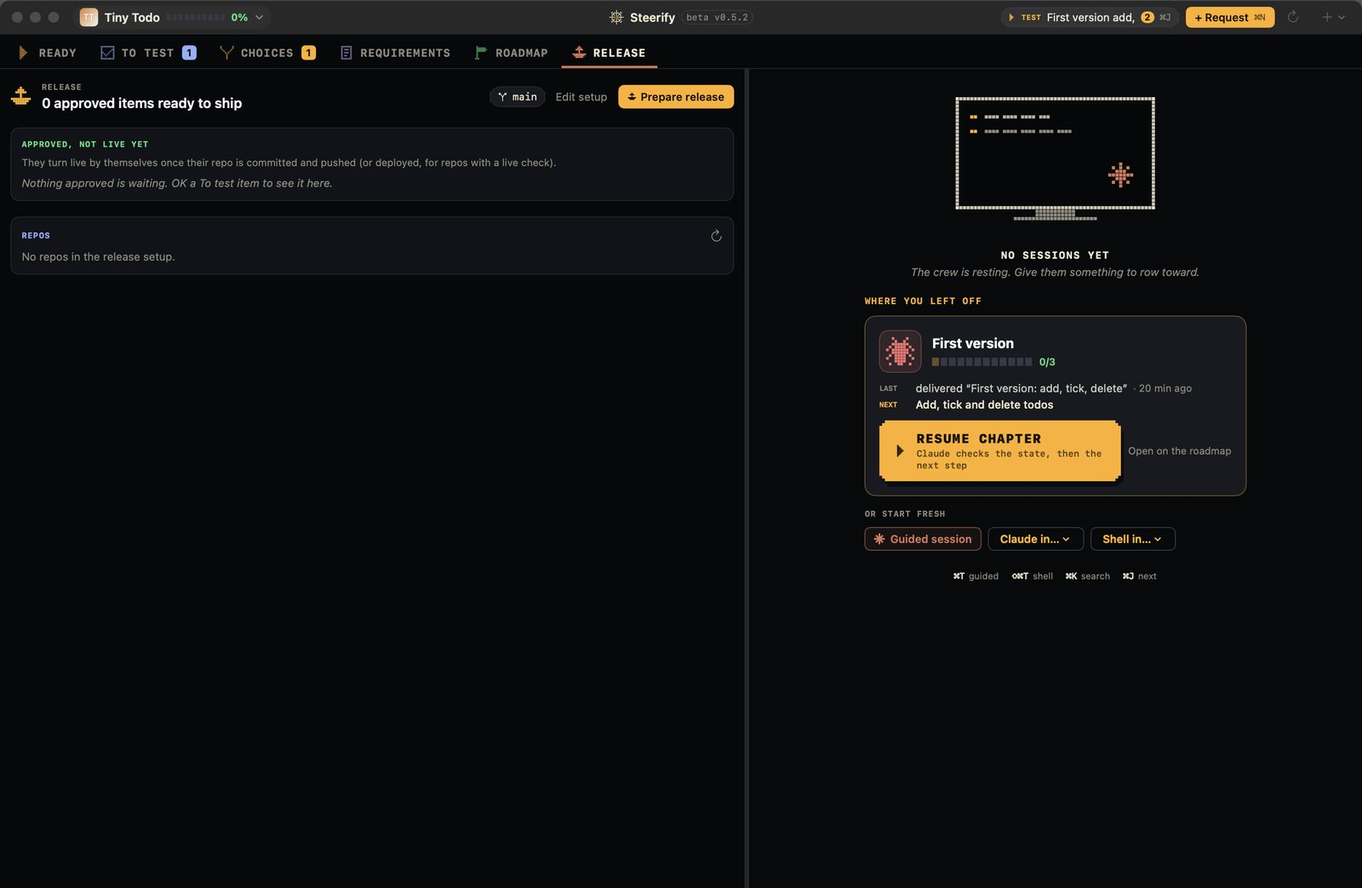
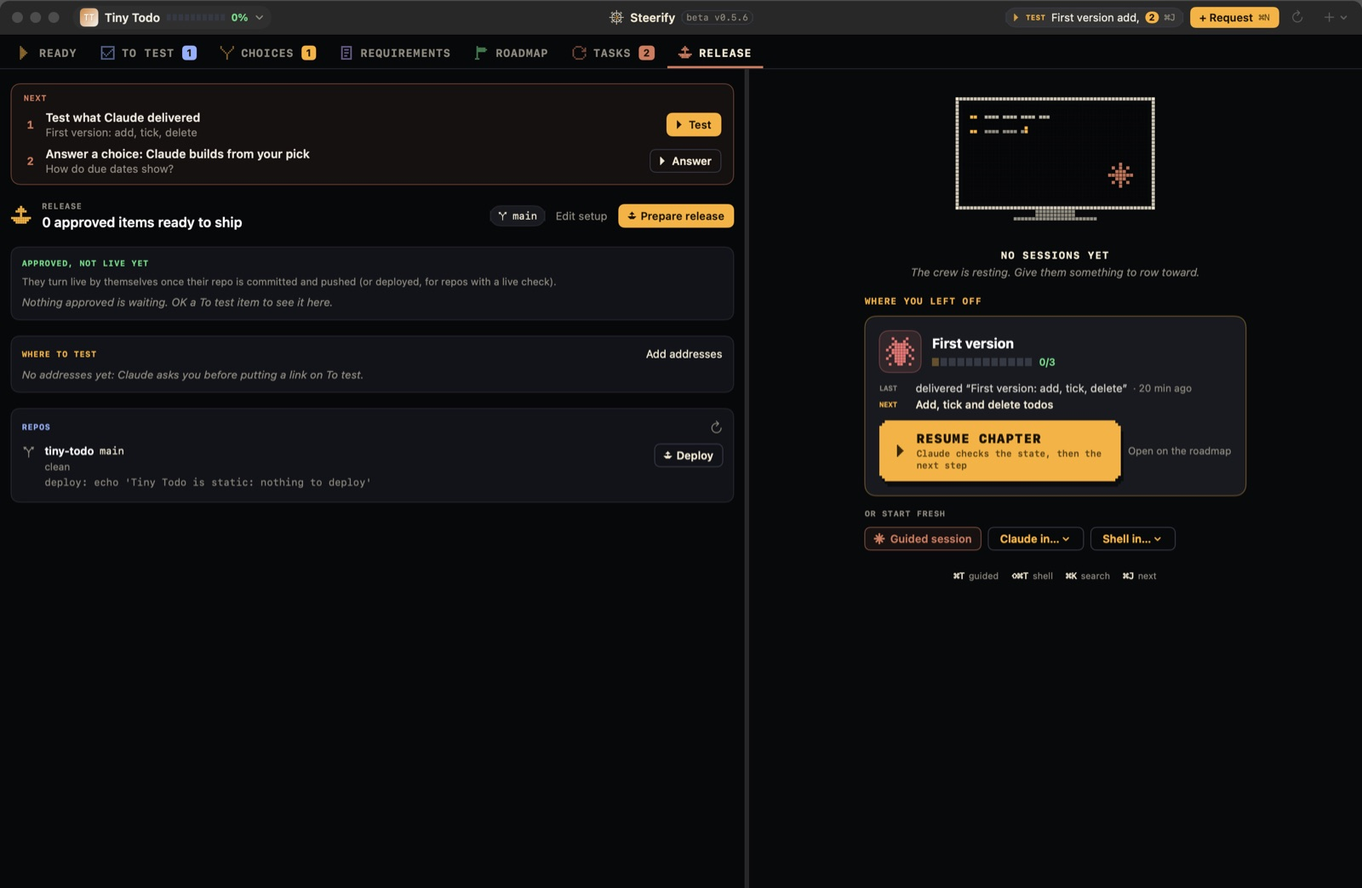
Steerify 0.5.6 (sync 58699a0)

diff --git a/site/index.html b/site/index.html
@@ -27,7 +27,7 @@
 <meta name="twitter:description" content="Steerify is a native Mac app for steering Claude Code across your projects: choices with mockups, visual review of finished work and a roadmap, next to the sessions doing the work. Ship more, read less.">
 <meta name="twitter:image" content="https://steerify.dev/assets/og-3.jpg">
 <meta name="twitter:image:alt" content="Steerify: 99 sessions open, 3 waiting on you. You decide. Claude builds. A free Mac app for steering Claude Code.">
-<script type="application/ld+json">{"@context":"https://schema.org","@graph":[{"@type":"WebSite","@id":"https://steerify.dev/#site","name":"Steerify","url":"https://steerify.dev/","inLanguage":"en","publisher":{"@type":"Person","name":"Frenk"}},{"@type":"SoftwareApplication","@id":"https://steerify.dev/#app","name":"Steerify","url":"https://steerify.dev/","applicationCategory":"DeveloperApplication","applicationSubCategory":"AI coding tool","operatingSystem":"macOS 15 or later","softwareVersion":"0.5.2","releaseNotes":"https://steerify.dev/releases.html","image":"https://steerify.dev/assets/og-3.jpg","screenshot":"https://steerify.dev/assets/shots/hero-now.jpg","description":"Steerify is a native Mac app for steering Claude Code across projects. It keeps a steering board (choices with mockups, visual review of finished work, requirements and a roadmap) next to the Claude Code terminal sessions doing the work. Claude asks, builds and delivers on the board; you choose, look and approve, and approved work ships in one click.","featureList":["Every roadmap item starts its own briefed Claude Code session in the right repo","Choices with a mockup per option, answered with one click","Visual review: finished work arrives as pictures, with notes pinned on the picture","Session status from Claude Code hooks: working, waiting on you, idle","Release tab: approved work is committed, pushed and deployed by the session that built it","Steerify MCP server so Claude updates the board directly","Multi-project: every project's board lives in its own git repo","Updates itself: new versions download in the background, one click to restart"],"offers":{"@type":"Offer","price":"0","priceCurrency":"EUR","availability":"https://schema.org/InStock","description":"Free and open source (MIT)"},"creator":{"@type":"Person","name":"Frenk"}},{"@type":"FAQPage","@id":"https://steerify.dev/#faq","mainEntity":[{"@type":"Question","name":"Is Steerify an AI?","acceptedAnswer":{"@type":"Answer","text":"No. Claude Code does the building, with your own login. Steerify is where you steer it. For small jobs like session summaries and sorting requests, it also uses Apple Intelligence on your Mac, when that is turned on."}},{"@type":"Question","name":"Do I need Claude Code?","acceptedAnswer":{"@type":"Answer","text":"Yes. Sessions run in a real terminal on your Mac. Steerify never sees your keys."}},{"@type":"Question","name":"Where does my board live?","acceptedAnswer":{"@type":"Answer","text":"In a folder of plain files in your own repo. Delete Steerify and it's all still yours."}},{"@type":"Question","name":"How does Steerify know what a Claude Code session is doing?","acceptedAnswer":{"@type":"Answer","text":"Through Claude Code hooks, never by reading the terminal output. Every session Steerify starts carries a few hooks (prompt, tool use, Stop, Notification, PermissionRequest), so it flips to working, idle or needs you the moment something happens. To tell finished from asked you something, it reads Claude's last reply in the session transcript. No polling, no tokens spent."}},{"@type":"Question","name":"How is Steerify different from T3 Code?","acceptedAnswer":{"@type":"Answer","text":"T3 Code manages agents: threads, branches and pull requests across Claude Code, Codex, Cursor and more, on every platform. Steerify manages decisions: choices with mockups, visual review and a roadmap, native on Mac, for Claude Code only. Running many agents? T3 Code. Tired of reading scrollback to decide? Steerify. Full comparison: https://steerify.dev/t3-code-alternative.html"}},{"@type":"Question","name":"What does it cost?","acceptedAnswer":{"@type":"Answer","text":"Nothing. Steerify is free and open source (MIT). You bring your own Claude Code login. Not made by Anthropic; Claude is their trademark."}}]}]}</script>
+<script type="application/ld+json">{"@context":"https://schema.org","@graph":[{"@type":"WebSite","@id":"https://steerify.dev/#site","name":"Steerify","url":"https://steerify.dev/","inLanguage":"en","publisher":{"@type":"Person","name":"Frenk"}},{"@type":"SoftwareApplication","@id":"https://steerify.dev/#app","name":"Steerify","url":"https://steerify.dev/","applicationCategory":"DeveloperApplication","applicationSubCategory":"AI coding tool","operatingSystem":"macOS 15 or later","softwareVersion":"0.5.6","releaseNotes":"https://steerify.dev/releases.html","image":"https://steerify.dev/assets/og-3.jpg","screenshot":"https://steerify.dev/assets/shots/hero-now.jpg","description":"Steerify is a native Mac app for steering Claude Code across projects. It keeps a steering board (choices with mockups, visual review of finished work, requirements and a roadmap) next to the Claude Code terminal sessions doing the work. Claude asks, builds and delivers on the board; you choose, look and approve, and approved work ships in one click.","featureList":["Every roadmap item starts its own briefed Claude Code session in the right repo","Choices with a mockup per option, answered with one click","Visual review: finished work arrives as pictures, with notes pinned on the picture","Session status from Claude Code hooks: working, waiting on you, idle","Release tab: approved work is committed, pushed and deployed by the session that built it","Steerify MCP server so Claude updates the board directly","Tasks: non-code work Claude does on a schedule (tutorials, reports, data collection), each run ending in a result you check","Multi-project: every project's board lives in its own git repo","Updates itself: new versions download in the background, one click to restart"],"offers":{"@type":"Offer","price":"0","priceCurrency":"EUR","availability":"https://schema.org/InStock","description":"Free and open source (MIT)"},"creator":{"@type":"Person","name":"Frenk"}},{"@type":"FAQPage","@id":"https://steerify.dev/#faq","mainEntity":[{"@type":"Question","name":"Is Steerify an AI?","acceptedAnswer":{"@type":"Answer","text":"No. Claude Code does the building, with your own login. Steerify is where you steer it. For small jobs like session summaries and sorting requests, it also uses Apple Intelligence on your Mac, when that is turned on."}},{"@type":"Question","name":"Do I need Claude Code?","acceptedAnswer":{"@type":"Answer","text":"Yes. Sessions run in a real terminal on your Mac. Steerify never sees your keys."}},{"@type":"Question","name":"Where does my board live?","acceptedAnswer":{"@type":"Answer","text":"In a folder of plain files in your own repo. Delete Steerify and it's all still yours."}},{"@type":"Question","name":"How does Steerify know what a Claude Code session is doing?","acceptedAnswer":{"@type":"Answer","text":"Through Claude Code hooks, never by reading the terminal output. Every session Steerify starts carries a few hooks (prompt, tool use, Stop, Notification, PermissionRequest), so it flips to working, idle or needs you the moment something happens. To tell finished from asked you something, it reads Claude's last reply in the session transcript. No polling, no tokens spent."}},{"@type":"Question","name":"How is Steerify different from T3 Code?","acceptedAnswer":{"@type":"Answer","text":"T3 Code manages agents: threads, branches and pull requests across Claude Code, Codex, Cursor and more, on every platform. Steerify manages decisions: choices with mockups, visual review and a roadmap, native on Mac, for Claude Code only. Running many agents? T3 Code. Tired of reading scrollback to decide? Steerify. Full comparison: https://steerify.dev/t3-code-alternative.html"}},{"@type":"Question","name":"Can Claude do work that isn't code?","acceptedAnswer":{"@type":"Answer","text":"Yes: that's the Tasks tab. A tutorial from your SOP, a weekly report, a data collection with your own tools. Give it an outcome and a few checks, run it once or on a schedule. Each run ends with a result you OK or send back; a run that never reports shows up as No result."}},{"@type":"Question","name":"What does it cost?","acceptedAnswer":{"@type":"Answer","text":"Nothing. Steerify is free and open source (MIT). You bring your own Claude Code login. Not made by Anthropic; Claude is their trademark."}}]}]}</script>
 <link rel="preconnect" href="https://fonts.googleapis.com">
 <link rel="stylesheet" href="https://fonts.googleapis.com/css2?family=Silkscreen:wght@400;700&family=Instrument+Serif:ital@1&family=Inter+Tight:wght@400;500;600;700&family=JetBrains+Mono:wght@400;500&display=swap">
 <link rel="stylesheet" href="assets/site.css?v=10">
@@ -116,7 +116,7 @@
     <div class="wrap">
       <span class="eyebrow">How it works</span>
       <h2 style="margin-top:14px">From one sentence to shipped.</h2>
-      <p class="lead" style="margin-top:14px">Ten ideas, no manual. Scroll, watch, done.</p>
+      <p class="lead" style="margin-top:14px">Eleven ideas, no manual. Scroll, watch, done.</p>
       <div class="moves">
         <div class="mv">
           <div><span class="num">01</span><h3>Say what you want.</h3><p>Write it in plain words. Steerify turns it into requirements, docs and a roadmap.</p><p class="aside">No template to fill in.</p></div>
@@ -135,7 +135,7 @@
           <div data-scene="3"></div>
         </div>
         <div class="mv">
-          <div><span class="num">05</span><h3>Only what needs you.</h3><p>Nine sessions running, three waiting on you. You see those three.</p><p class="aside">The other six don't need a babysitter.</p></div>
+          <div><span class="num">05</span><h3>Only what needs you.</h3><p>Nine sessions running, three waiting on you. You see those three: rowing is blue, your turn is violet with a Test or Answer button, done is grey with a tick. On top of the board, at most two next steps.</p><p class="aside">The other six don't need a babysitter.</p></div>
           <div data-scene="4"></div>
         </div>
         <div class="mv flip">
@@ -158,6 +158,10 @@
           <div><span class="num">10</span><h3>The small jobs stay on your Mac.</h3><p>Session summaries, sorting a new request, roadmap ideas from your commits, a first check of each screenshot: Apple Intelligence does them on your Mac's own chip. Free, private, and optional. Claude still does the building.</p><p class="aside">Not everything needs the cloud.</p></div>
           <div data-scene="mac"></div>
         </div>
+        <div class="mv" id="tasks">
+          <div><span class="num">11</span><h3>Not only code: Tasks.</h3><p>A tutorial from your SOP, the Monday data collection, a report. Claude does it with your tools and your standards, once or on a schedule. A run only ends with a result: what it made, the numbers, a tick or a cross on every check. You say OK or Redo.</p><p class="aside">Plan it once. Check the result, not the session.</p></div>
+          <figure class="shot"><img src="assets/shots/demo/web/tasks.jpg" width="1600" height="1043" alt="The Tasks tab: a running tutorial, a weekly report to check with its numbers and one failed check, a run with no result, the schedule with its run history" loading="lazy"></figure>
+        </div>
       </div>
     </div>
   </section>
@@ -171,9 +175,11 @@
         <figure data-label="Decide"><a href="assets/shots/demo/choice-making.png"><img src="assets/shots/demo/web/choice-making.jpg" width="1600" height="1043" alt="A choice opened full screen: the Tiny Todo list with due-date chips, option A suggested, and a Choose A button" loading="lazy"></a><figcaption><span><b>Decide</b> · A choice, full screen. The option is a picture; one button chooses it.</span></figcaption></figure>
         <figure data-label="Look"><a href="assets/shots/demo/test-preview.png"><img src="assets/shots/demo/web/test-preview.jpg" width="1600" height="1043" alt="A delivered test with its picture, a Mark it right button and the verdict buttons OK, Refine, Broken" loading="lazy"></a><figcaption><span><b>Look</b> · One test, one picture. Mark it right, then OK, Refine or Broken.</span></figcaption></figure>
         <figure data-label="To test"><a href="assets/shots/demo/test.png"><img src="assets/shots/demo/web/test.jpg" width="1600" height="1043" alt="The To test tab: a delivery with two tests, each with a picture, Test it and Looks right" loading="lazy"></a><figcaption><span><b>To test</b> · Every delivery with its tests, a picture for each one.</span></figcaption></figure>
-        <figure data-label="Roadmap"><a href="assets/shots/demo/roadmap.png"><img src="assets/shots/demo/web/roadmap.jpg" width="1600" height="1043" alt="The roadmap: two chapters with progress bars and a Start button on each item" loading="lazy"></a><figcaption><span><b>Roadmap</b> · Chapters, progress, and a Start button on every item.</span></figcaption></figure>
+        <figure data-label="Roadmap"><a href="assets/shots/demo/roadmap.png"><img src="assets/shots/demo/web/roadmap.jpg" width="1600" height="1043" alt="The roadmap: the Next strip on top, area tags, two chapters with progress, each delivery's pictures and tests on its rows, and a Start button on every item" loading="lazy"></a><figcaption><span><b>Roadmap</b> · Chapters, area tags, each feature with its pictures, a Start on every item.</span></figcaption></figure>
+        <figure data-label="Tasks"><a href="assets/shots/demo/tasks.png"><img src="assets/shots/demo/web/tasks.jpg" width="1600" height="1043" alt="The Tasks tab: a running tutorial, a weekly report to check with OK and Redo, a run with no result, a scheduled task with its run history" loading="lazy"></a><figcaption><span><b>Tasks</b> · Work that isn't code, on a schedule. Every run ends with a result to check.</span></figcaption></figure>
+        <figure data-label="Sessions"><a href="assets/shots/demo/sessions.png"><img src="assets/shots/demo/web/sessions.jpg" width="1600" height="1043" alt="The Ready tab with where you left off and what waits on you, next to three sessions: one needs you, one rowing, one idle" loading="lazy"></a><figcaption><span><b>Sessions</b> · Rowing in blue, your turn in violet, done in grey. Ready shows where you left off.</span></figcaption></figure>
         <figure data-label="Requirements"><a href="assets/shots/demo/requirements.png"><img src="assets/shots/demo/web/requirements.jpg" width="1600" height="1043" alt="The Requirements tab: three proposed requirements with confirm, edit and later buttons" loading="lazy"></a><figcaption><span><b>Requirements</b> · Claude proposes them. You confirm, edit or park each line.</span></figcaption></figure>
-        <figure data-label="Request"><a href="assets/shots/demo/new-request.png"><img src="assets/shots/demo/web/new-request.jpg" width="1600" height="1043" alt="The New request sheet: a typed request sorted as a refinement and filed under a chapter" loading="lazy"></a><figcaption><span><b>Request</b> · Type a fix or an idea from anywhere. Steerify files it in the right chapter.</span></figcaption></figure>
+        <figure data-label="Request"><a href="assets/shots/demo/request-mark.png"><img src="assets/shots/demo/web/request-mark.jpg" width="1600" height="1043" alt="The New request sheet: a screenshot with a numbered dot and a marked area, the request text pointing at them, sorted as a refinement and filed under a chapter" loading="lazy"></a><figcaption><span><b>Request</b> · Mark the picture, say what's wrong. Steerify files it as a fix, a feature or a task.</span></figcaption></figure>
         <figure data-label="Search"><a href="assets/shots/demo/search.png"><img src="assets/shots/demo/web/search.jpg" width="1600" height="1043" alt="The search palette: results for "due" grouped by roadmap and choices" loading="lazy"></a><figcaption><span><b>Search</b> · One search across sessions, choices, roadmap and requests.</span></figcaption></figure>
       </div>
     </div>
@@ -260,7 +266,7 @@
         <div class="mv">
           <div><h3>How you start</h3>
             <ul class="tech">
-              <li><b>Add a project.</b> Pick any folder. Steerify creates a <code>.steerify/</code> board inside it: plain JSON files that travel with your repo.</li>
+              <li><b>Add a project.</b> Drop a folder on Steerify, or pick one. Steerify creates a <code>.steerify/</code> board inside it: plain JSON files that travel with your repo. <b>Set up with Claude</b> reads the project and fills the board in while you watch.</li>
               <li><b>The skill installs itself.</b> <code>~/.claude/skills/steerify</code> teaches every Claude Code session the same loop.</li>
               <li><b>Start an item.</b> It opens <code>claude '/steerify build &lt;item&gt;'</code> in the right repo, in a real terminal.</li>
             </ul>
@@ -291,6 +297,7 @@
         <div><h3>Where does my board live?</h3><p>In a folder of plain files in your own repo. Delete Steerify and it's all still yours.</p></div>
         <div><h3>How does Steerify know what a Claude Code session is doing?</h3><p>Through Claude Code hooks, never by reading the terminal output. Every session Steerify starts carries a few hooks (prompt, tool use, Stop, Notification, PermissionRequest), so it flips to working, idle or needs you the moment something happens. To tell finished from asked you something, it reads Claude's last reply in the session transcript. No polling, no tokens spent. <a href="claude-code-session-status.html">How it works, step by step</a>.</p></div>
         <div><h3>How is Steerify different from T3 Code?</h3><p>T3 Code manages agents: threads, branches and pull requests across Claude Code, Codex, Cursor and more, on every platform. Steerify manages decisions: choices with mockups, visual review and a roadmap, native on Mac, for Claude Code only. Running many agents? T3 Code. Tired of reading scrollback to decide? Steerify. <a href="t3-code-alternative.html">Full comparison</a>.</p></div>
+        <div><h3>Can Claude do work that isn't code?</h3><p>Yes: that's the Tasks tab. A tutorial from your SOP, a weekly report, a data collection with your own tools. Give it an outcome and a few checks, run it once or on a schedule (every Monday at 8). Each run ends with a result you OK or send back; a run that never reports shows up as No result.</p></div>
         <div><h3>What does it cost?</h3><p>Nothing. Steerify is free and open source (MIT). You bring your own Claude Code login. Not made by Anthropic; Claude is their trademark.</p></div>
       </div>
     </div>

diff --git a/site/releases.html b/site/releases.html
@@ -56,13 +56,25 @@
   <section class="rel-hero">
     <div class="wrap">
       <span class="eyebrow">What's new</span>
-      <h1 class="rel-title">Five versions. Two days.</h1>
+      <h1 class="rel-title">Eleven releases. Four days.</h1>
       <p class="lead" style="margin-top:14px">Every line below shipped through Steerify's own board: built by Claude, looked at, marked OK.</p>
       <p class="aside" style="margin-top:10px;font-size:20px">Yes, we know. It was a long day.</p>
     </div>
   </section>
   <section style="padding-top:0">
     <div class="wrap rels">
+      <article class="rel">
+        <header><span class="ver">v0.5.6</span><span class="when">21 Nov</span><h2>Every feature keeps its pictures.</h2></header>
+        <div class="rel-body"><ul><li><span class="ri" data-icon="road"></span><div><h3>Roadmap, rebuilt</h3><p>Each key result shows its pictures, design first, then the test shots. Area tags named by the local AI, core vs extras, busiest chapter on top, Done folded.</p></div></li><li><span class="ri" data-icon="req"></span><div><h3>Mark the picture</h3><p>In a new request the picture opens big: ⌘-click drops a numbered dot, drag marks an area, and ① ② go into your text.</p></div></li><li><span class="ri" data-icon="choice"></span><div><h3>Simple choices, one list</h3><p>Naming, order or yes/no: one list with a radio per option, no empty picture.</p></div></li><li><span class="ri" data-icon="play"></span><div><h3>Ready: where you left off</h3><p>Your chapters, the next step and what waits on you, in one tab. Release sits apart from build, with a release note for Claude.</p></div></li><li><span class="ri" data-icon="term"></span><div><h3>Picks reach the session that asked</h3><p>Answer a choice and the session that asked it gets it, once all its choices are answered. A deploy wakes the session waiting on it.</p></div></li></ul><figure class="shot"><img src="assets/shots/demo/web/roadmap.jpg" alt="Steerify v0.5.6: the roadmap with area tags and pictures per feature" loading="lazy"></figure></div>
+      </article>
+      <article class="rel">
+        <header><span class="ver">v0.5.5</span><span class="when">20 Nov · evening</span><h2>Not only code.</h2></header>
+        <div class="rel-body"><ul><li><span class="ri" data-icon="play"></span><div><h3>Tasks</h3><p>A new tab for work Claude does with your tools: a tutorial from the SOP, a weekly report. Once or on a schedule; every run ends with a result you OK or Redo, or shows No result.</p></div></li><li><span class="ri" data-icon="term"></span><div><h3>Sessions you can read at a glance</h3><p>Rowing is blue, your turn is violet with Test or Answer, done is grey with a tick.</p></div></li><li><span class="ri" data-icon="road"></span><div><h3>Next strip</h3><p>At most two things to do now, on top of the board, one button each.</p></div></li><li><span class="ri" data-icon="feather"></span><div><h3>Drop a folder to start</h3><p>Drop a folder on the Dock icon or the window. Set up with Claude, then watch the board fill in.</p></div></li><li><span class="ri" data-icon="test"></span><div><h3>Test it opens the feature</h3><p>Links to a home page or a dead page are refused, so Test it always lands on the thing to check.</p></div></li></ul><figure class="shot"><img src="assets/shots/demo/web/tasks.jpg" alt="Steerify v0.5.5: the Tasks tab" loading="lazy"></figure></div>
+      </article>
+      <article class="rel">
+        <header><span class="ver">v0.5.2–0.5.4</span><span class="when">20 Nov</span><h2>It updates itself.</h2></header>
+        <div class="rel-body"><ul><li><span class="ri" data-icon="feather"></span><div><h3>Updates in the background</h3><p>New versions download by themselves. Hover Restart to update to see what's in it.</p></div></li><li><span class="ri" data-icon="req"></span><div><h3>Requests, faster</h3><p>Your latest screenshots one click away, the project guessed from what you type, and a request for another project stays there.</p></div></li><li><span class="ri" data-icon="choice"></span><div><h3>First setup asks with choices</h3><p>Claude runs your app, shows what it understood and asks with pictures, not a wall of questions.</p></div></li><li><span class="ri" data-icon="test"></span><div><h3>Where to test</h3><p>Each project lists its real test addresses; links anywhere else are refused.</p></div></li><li><span class="ri" data-icon="file"></span><div><h3>Demo project</h3><p>Tiny Todo comes with the app: try every screen before touching your own code.</p></div></li></ul><figure class="shot"><img src="assets/shots/demo/web/request-mark.jpg" alt="Steerify v0.5.4: a new request with a marked picture" loading="lazy"></figure></div>
+      </article>
       <article class="rel">
         <header><span class="ver">v0.5</span><span class="when">19 Nov</span><h2>Ask from anywhere.</h2></header>
         <div class="rel-body"><ul><li><span class="ri" data-icon="req"></span><div><h3>New request (⌘N)</h3><p>A fix, a tweak, a feature or a question, with screenshots. Steerify shows where it goes, then starts a briefed Claude session.</p></div></li><li><span class="ri" data-icon="play"></span><div><h3>From any app (⌃⌥N)</h3><p>The menu bar opens a request anywhere and asks which project. A compact panel, by priority.</p></div></li><li><span class="ri" data-icon="road"></span><div><h3>Ready to build</h3><p>One request, one row, one session. One line per topic.</p></div></li><li><span class="ri" data-icon="feather"></span><div><h3>Since you left</h3><p>What moved while you were away, and local AI helpers for session summaries and request triage.</p></div></li><li><span class="ri" data-icon="choice"></span><div><h3>Guided choices</h3><p>Choices as a guided decision; ⌘K finds them by their content.</p></div></li></ul><figure class="shot"><img src="assets/shots/menubar.jpg" alt="Steerify v0.5" loading="lazy"></figure></div>

diff --git a/README.md b/README.md
@@ -59,11 +59,15 @@ And this is the real app, on the demo project that comes with it:
     <td width="50%"><img src="site/assets/shots/demo/web/test.jpg" alt="To test"><br><b>To test.</b> Every delivery with its tests, a picture for each one.</td>
   </tr>
   <tr>
-    <td width="50%"><img src="site/assets/shots/demo/web/roadmap.jpg" alt="Roadmap"><br><b>Roadmap.</b> Chapters, progress, and a Start button on every item.</td>
+    <td width="50%"><img src="site/assets/shots/demo/web/roadmap.jpg" alt="Roadmap"><br><b>Roadmap.</b> Chapters, area tags, each feature with its pictures, a Start on every item.</td>
     <td width="50%"><img src="site/assets/shots/demo/web/requirements.jpg" alt="Requirements"><br><b>Requirements.</b> Claude proposes them. You confirm, edit or park each line.</td>
   </tr>
   <tr>
-    <td width="50%"><img src="site/assets/shots/demo/web/new-request.jpg" alt="Request"><br><b>Request.</b> Type a fix or an idea from anywhere. Steerify files it in the right chapter.</td>
+    <td width="50%"><img src="site/assets/shots/demo/web/tasks.jpg" alt="Tasks"><br><b>Tasks.</b> Work that isn't code (a tutorial, a weekly report), once or on a schedule. Every run ends with a result you OK or send back.</td>
+    <td width="50%"><img src="site/assets/shots/demo/web/sessions.jpg" alt="Sessions"><br><b>Sessions.</b> Rowing in blue, your turn in violet, done in grey. Ready shows where you left off.</td>
+  </tr>
+  <tr>
+    <td width="50%"><img src="site/assets/shots/demo/web/request-mark.jpg" alt="Request"><br><b>Request.</b> Mark the picture, say what's wrong. Steerify files it as a fix, a feature or a task.</td>
     <td width="50%"><img src="site/assets/shots/demo/web/search.jpg" alt="Search"><br><b>Search.</b> One search across sessions, choices, roadmap and requests.</td>
   </tr>
 </table>
